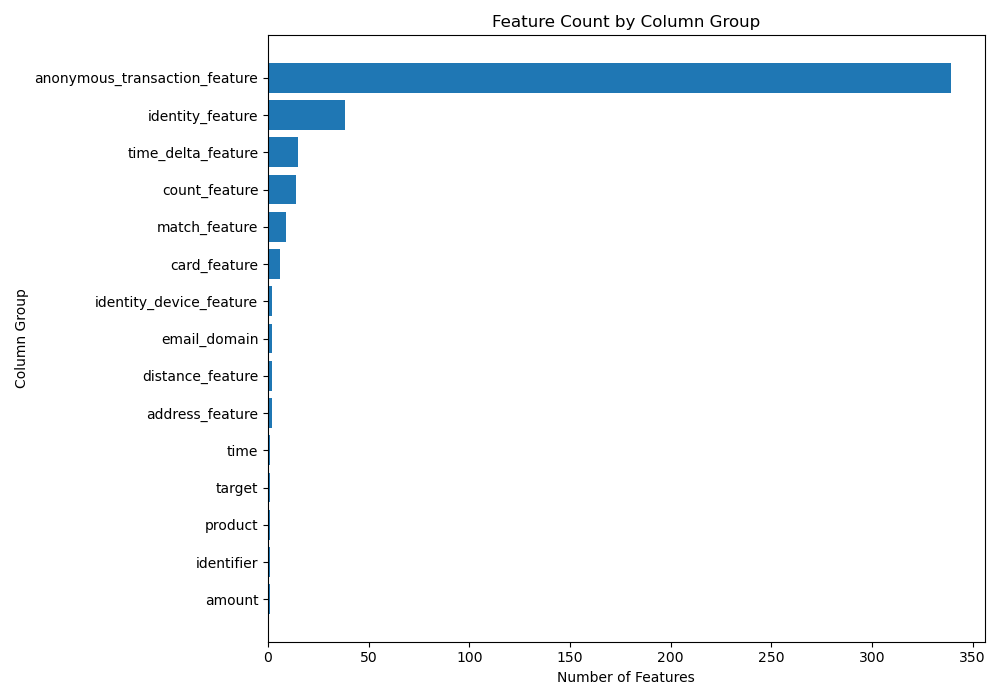
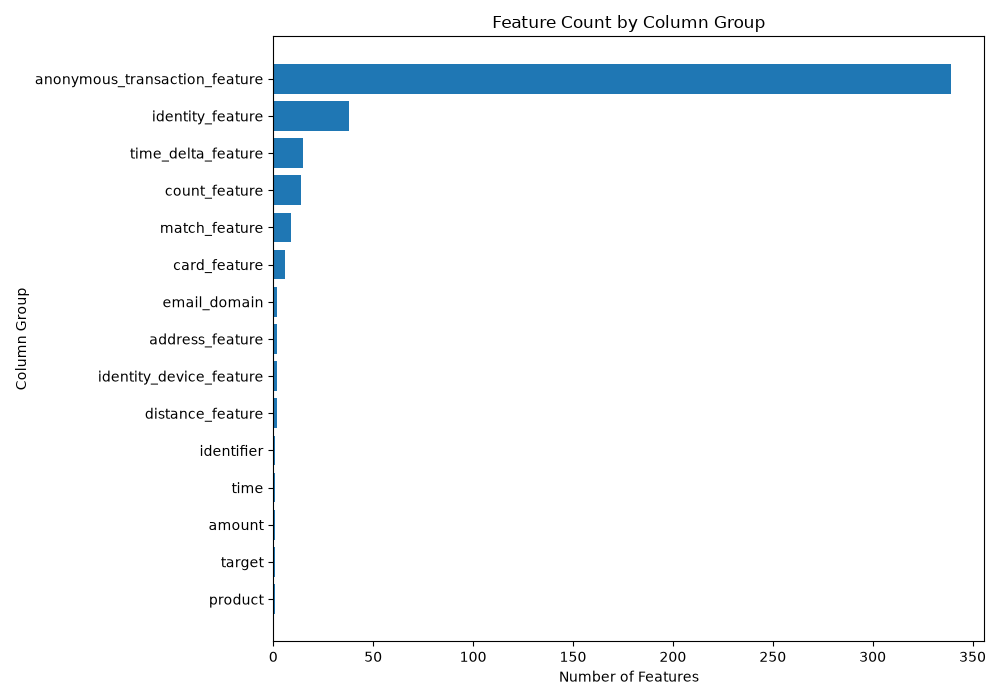
Fix feature selection report and near-constant summary

diff --git a/ml/src/features/analyse_feature_selection.py b/ml/src/features/analyse_feature_selection.py
@@ -1,11 +1,28 @@
 from pathlib import Path
 import pandas as pd
+import numpy as np
 import matplotlib.pyplot as plt
 
 
-DATA_DIR = Path("data/raw")
-FIGURES_DIR = Path("reports/figures")
-SUMMARY_DIR = Path("reports/model_reports")
+def find_project_root(start: Path = Path.cwd(), marker: str = "data/raw") -> Path:
+    """Walk parents from start until a folder containing `marker` exists.
+
+    Raises FileNotFoundError if not found.
+    """
+    current = start.resolve()
+    while True:
+        if (current / marker).exists():
+            return current
+        if current.parent == current:
+            raise FileNotFoundError(f"Could not locate '{marker}' under {start} or its parents")
+        current = current.parent
+
+
+# Resolve repository root and standard paths so the script runs from anywhere
+PROJECT_ROOT = find_project_root()
+DATA_DIR = PROJECT_ROOT / "data" / "raw"
+FIGURES_DIR = PROJECT_ROOT / "reports" / "figures"
+SUMMARY_DIR = PROJECT_ROOT / "reports" / "model_reports"
 
 TRAIN_TRANSACTION_FILE = DATA_DIR / "train_transaction.csv"
 TRAIN_IDENTITY_FILE = DATA_DIR / "train_identity.csv"
@@ -106,25 +123,52 @@ def identify_near_constant_columns(
     return near_constant_columns
 
 
-def calculate_numeric_correlations(df: pd.DataFrame) -> pd.DataFrame:
-    numeric_df = df.select_dtypes(include=["number"])
+def calculate_numeric_correlations(
+    df: pd.DataFrame,
+    sample_max_rows: int = 200_000,
+    memory_threshold_bytes: int = 1_000_000_000,
+) -> pd.DataFrame:
+    """
+    Compute correlations between numeric features and `isFraud` in a
+    memory-efficient way. If the estimated memory to hold the numeric
+    matrix exceeds `memory_threshold_bytes`, a random sample of rows
+    (up to `sample_max_rows`) is used.
+    """
+    if "isFraud" not in df.columns:
+        return pd.DataFrame(columns=["feature_name", "absolute_correlation", "signed_correlation"])
 
-    correlations = numeric_df.corr(numeric_only=True)["isFraud"].drop(
-        labels=["isFraud"],
-        errors="ignore",
-    )
+    numeric_cols = df.select_dtypes(include=[np.number]).columns.tolist()
+    # remove target if present
+    numeric_cols = [c for c in numeric_cols if c != "isFraud"]
 
-    correlation_df = (
-        correlations.abs()
-        .sort_values(ascending=False)
-        .reset_index()
-        .rename(columns={"index": "feature_name", "isFraud": "absolute_correlation"})
-    )
+    n_rows = df.shape[0]
+    n_cols = len(numeric_cols)
+    estimated_bytes = int(n_rows) * int(n_cols) * 8
 
-    signed_correlations = correlations.reindex(correlation_df["feature_name"]).values
-    correlation_df["signed_correlation"] = signed_correlations
+    if estimated_bytes > memory_threshold_bytes and n_rows > sample_max_rows:
+        sample_n = min(sample_max_rows, n_rows)
+        df_sample = df.sample(n=sample_n, random_state=0)
+    else:
+        df_sample = df
 
-    return correlation_df
+    cor_records = []
+    y = df_sample["isFraud"].astype(float)
+    for col in numeric_cols:
+        try:
+            x = df_sample[col].astype(float)
+            corr = x.corr(y)
+        except Exception:
+            corr = np.nan
+        cor_records.append({"feature_name": col, "signed_correlation": corr})
+
+    correlation_df = pd.DataFrame(cor_records)
+    if correlation_df.empty:
+        return correlation_df
+
+    correlation_df["absolute_correlation"] = correlation_df["signed_correlation"].abs()
+    correlation_df = correlation_df.sort_values("absolute_correlation", ascending=False).reset_index(drop=True)
+
+    return correlation_df[["feature_name", "absolute_correlation", "signed_correlation"]]
 
 
 def create_feature_selection_summary(
@@ -149,13 +193,11 @@ def create_feature_selection_summary(
     summary["average_unique_values"] = summary["average_unique_values"].round(3)
 
     summary["near_constant_columns_in_group"] = summary["column_group"].apply(
-        lambda group: sum(
-            missingness_df[
-                (missingness_df["column_group"] == group)
-                & (missingness_df["column_name"].isin(near_constant_columns))
-            ].shape
-        )
-    )
+    lambda group: missingness_df[
+        (missingness_df["column_group"] == group)
+        & (missingness_df["column_name"].isin(near_constant_columns))
+    ].shape[0]
+)
 
     return summary.sort_values("feature_count", ascending=False)
 
